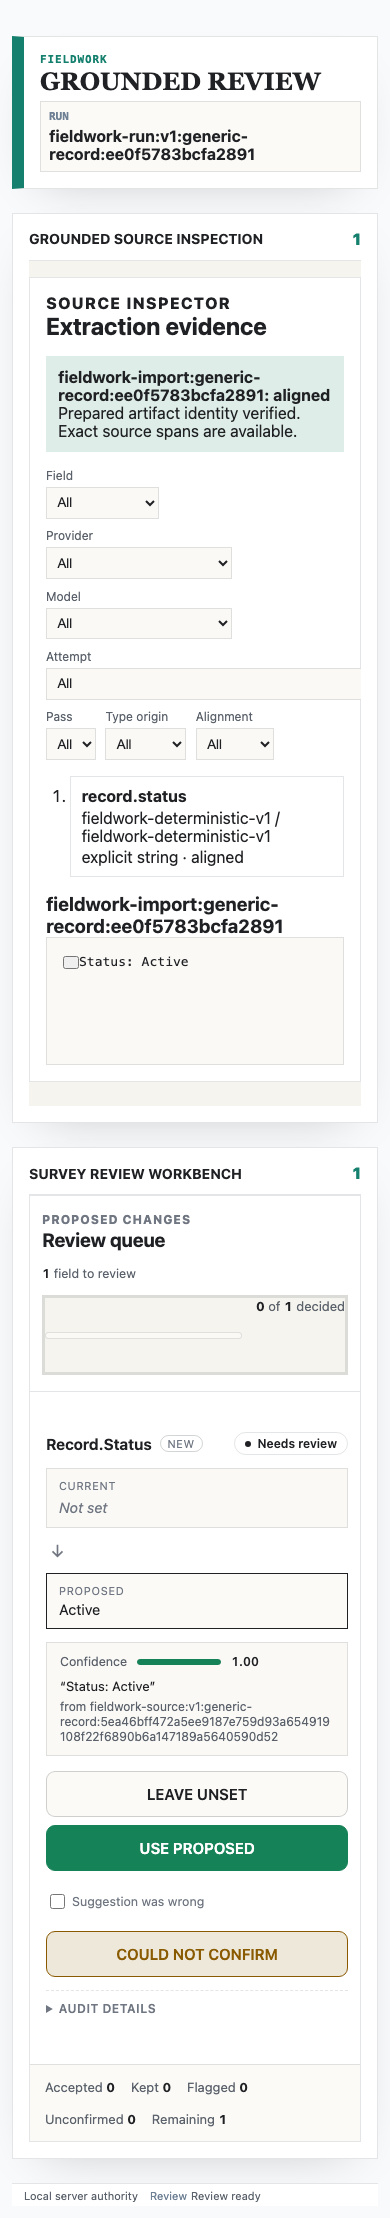
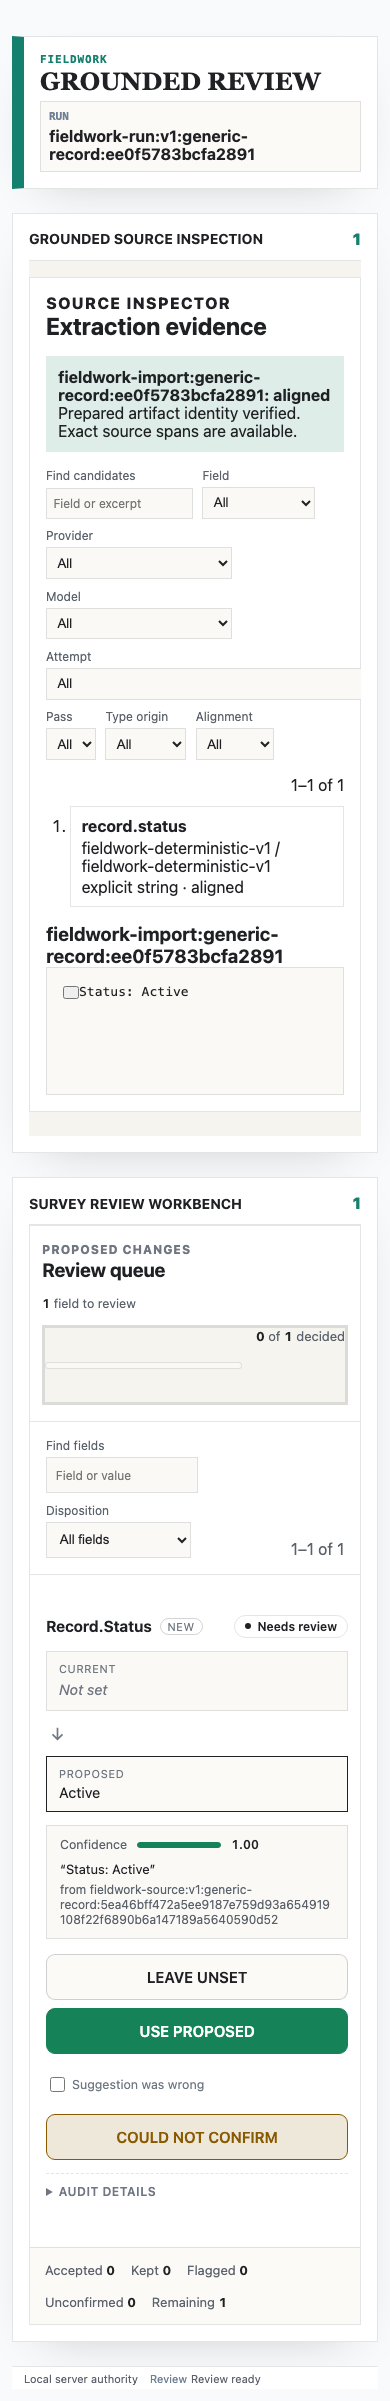
feat: scale grounded inspection and review (#24)

diff --git a/src/inspection.ts b/src/inspection.ts
@@ -1,0 +1,52 @@
+import {
+  buildExtractionInspectorModel,
+  exportExtractionInspector,
+  importExtractionEnvelope,
+} from "@kontourai/survey";
+import { importNameFor } from "./fieldwork.js";
+import { assertPortableOutput, readRun } from "./run-store.js";
+
+export interface FieldworkInspectionExportOptions {
+  readonly includePreparedText?: boolean;
+  readonly includeExcerpts?: boolean;
+}
+
+/**
+ * Creates a canonical, read-only inspection artifact for a stored run.
+ *
+ * Survey remains the inspector/export contract owner. Fieldwork only resolves
+ * and rebinds its local prepared artifact before applying the portable
+ * disclosure guard.
+ */
+export async function inspectionExport(
+  runDirectory: string,
+  options: FieldworkInspectionExportOptions = {},
+): Promise<string> {
+  const stored = await readRun(runDirectory);
+  const imported = importExtractionEnvelope(stored.envelope, {
+    importName: importNameFor(stored.run),
+    producerNamespace: "fieldwork",
+    sourceKind: "uploaded-document",
+    claimTarget: (proposal) => {
+      const projection = stored.run.task.spec.projections.find(
+        (entry) => entry.fieldPath === proposal.fieldPath,
+      );
+      if (!projection) throw new Error("Unknown projection");
+      return { ...projection.claim, fieldOrBehavior: proposal.fieldPath };
+    },
+  });
+  const model = buildExtractionInspectorModel({
+    importResult: imported,
+    artifact: {
+      status: "available",
+      text: stored.preparedText,
+      actualDigest: stored.run.preparedArtifact.digest,
+    },
+  });
+  const artifact = exportExtractionInspector(
+    model,
+    options,
+  );
+  assertPortableOutput(JSON.parse(artifact));
+  return artifact;
+}

diff --git a/test/browser/review.spec.ts b/test/browser/review.spec.ts
@@ -24,8 +24,53 @@ test("review links a grounded candidate to a durable browser decision", async ({
     await page.getByTestId("use-proposed").click();
     await expect(page.getByLabel("Fieldwork status")).toContainText("Saved");
     await page.reload(); await expect(page.getByTestId("decided-chip")).toHaveText("Accepted");
-    await expect(page).toHaveScreenshot("fieldwork-review.png", { fullPage: true, maxDiffPixels: 500 });
+    // Native select text/chevrons can vary slightly across otherwise identical
+    // Chromium captures. Keep the allowance well below 0.1% of this full-page
+    // image while structural and interaction assertions verify the controls.
+    await expect(page).toHaveScreenshot("fieldwork-review.png", { fullPage: true, maxDiffPixels: 1_500 });
   } finally { await server.close(); }
+});
+
+test("composed Survey workbench bounds and searches a thousand review items", async ({ page }) => {
+  const run = await runFieldwork({
+    taskPath: "examples/generic/task.json",
+    sourcePath: "examples/generic/source.txt",
+    root: await tempRoot("browser-large-review"),
+  });
+  const server = await openRun(run.runDirectory);
+  try {
+    await page.route("**/api/v1/run", async (route) => {
+      const response = await route.fetch();
+      const body = await response.json();
+      const template = body.review.snapshot.items[0];
+      const items = Array.from({ length: 1_005 }, (_, index) => ({
+        ...structuredClone(template),
+        metadata: {
+          ...structuredClone(template.metadata),
+          name: `large-item-${String(index).padStart(4, "0")}`,
+        },
+        spec: {
+          ...structuredClone(template.spec),
+          target: index === 1_004 ? "needle-field" : `large.field.${index}`,
+        },
+      }));
+      body.review.snapshot = {
+        ...body.review.snapshot,
+        items,
+        activeItemName: items[0].metadata.name,
+      };
+      body.review.items = items;
+      await route.fulfill({ response, json: body });
+    });
+    await page.goto(server.url);
+    await expect(page.getByTestId("review-field")).toHaveCount(50);
+    await expect(page.getByText("1–50 of 1005")).toBeVisible();
+    await page.getByTestId("queue-search").fill("needle");
+    await expect(page.getByTestId("review-field")).toHaveCount(1);
+    await expect(page.locator('[data-field="needle-field"]')).toBeVisible();
+  } finally {
+    await server.close();
+  }
 });
 
 test("review has a mobile visual baseline", async ({ page }) => {
@@ -96,7 +141,7 @@ test("format-native PDF and OCR context is visible in the shared inspector", asy
       .toContainText("Status: Active");
     await expect(page).toHaveScreenshot("fieldwork-format-inspection.png", {
       fullPage: true,
-      maxDiffPixels: 500,
+      maxDiffPixels: 1_500,
     });
   } finally {
     await pdfServer.close();

diff --git a/test/api.test.ts b/test/api.test.ts
@@ -3,6 +3,8 @@ import test from "node:test";
 import { openRun } from "../src/server.js";
 import type { FieldworkRunViewV1, ReviewMutationResponseV1 } from "../src/api-contracts.js";
 import { runFieldwork, reviewedExport } from "../src/fieldwork.js";
+import { inspectionExport } from "../src/inspection.js";
+import { persistedReviewSnapshotSchema } from "../src/survey-persistence.js";
 import { apiFetch, tempRoot } from "./helpers.js";
 import { buildReviewSessionEvents, type ReviewQueueSessionState, type ReviewWorkbenchDecision } from "@kontourai/survey/review-workbench";
 import { lstat, mkdir, readFile, rmdir, symlink, unlink, utimes, writeFile } from "node:fs/promises";
@@ -49,6 +51,50 @@ test("loopback API persists a Survey decision and exports after acceptance", asy
     if (!stale.ok) assert.equal(stale.error.code, "REVIEW_CONFLICT");
     assert.ok(await reviewedExport(run.runDirectory));
   } finally { await server.close(); }
+});
+
+test("exports a canonical static inspection artifact with source disclosure off by default", async () => {
+  const run = await runFieldwork({
+    taskPath: "examples/generic/task.json",
+    sourcePath: "examples/generic/source.txt",
+    root: await tempRoot("inspection-export"),
+  });
+  const safe = await inspectionExport(run.runDirectory);
+  assert.match(safe, /ExtractionInspectorExport/);
+  assert.match(safe, /preparedTextIncluded":false/);
+  assert.match(safe, /\[redacted\]/);
+  assert.doesNotMatch(safe, /Status: Active/);
+  const disclosed = await inspectionExport(run.runDirectory, {
+    includePreparedText: true,
+    includeExcerpts: true,
+  });
+  assert.match(disclosed, /Status: Active/);
+});
+
+test("accepts a thousand-item Survey snapshot while preserving bounded task projections", async () => {
+  const run = await runFieldwork({
+    taskPath: "examples/generic/task.json",
+    sourcePath: "examples/generic/source.txt",
+    root: await tempRoot("large-snapshot"),
+  });
+  const server = await openRun(run.runDirectory);
+  try {
+    const initial = await view(server);
+    const snapshot = structuredClone(initial.review.snapshot) as unknown as ReviewQueueSessionState;
+    const template = snapshot.items[0]!;
+    const items = Array.from({ length: 1_005 }, (_, index) => ({
+      ...structuredClone(template),
+      metadata: { ...structuredClone(template.metadata), name: `large-item-${index}` },
+      spec: { ...structuredClone(template.spec), target: `large.field.${index}` },
+    }));
+    assert.equal(persistedReviewSnapshotSchema.parse({
+      ...snapshot,
+      items,
+      activeItemName: items[0]!.metadata.name,
+    }).items.length, 1_005);
+  } finally {
+    await server.close();
+  }
 });
 
 test("two server instances and path aliases serialize one append-only winner", async () => {

diff --git a/src/cli.ts b/src/cli.ts
@@ -8,6 +8,7 @@ import { openRun } from "./server.js";
 import { createDatumRuntimeBinding, createProfileRuntimeBinding, type FieldworkRuntimeBinding } from "./runtime-contracts.js";
 import { createCheckRunner, createLookoutSnapshotStore, loadRegistry } from "@kontourai/lookout";
 import { recheckFieldwork } from "./recheck.js";
+import { inspectionExport } from "./inspection.js";
 
 async function main(argv: string[]): Promise<void> {
   const [command, ...args] = argv;
@@ -80,7 +81,7 @@ async function main(argv: string[]): Promise<void> {
       const registry = await loadRegistry(flag(args, "--registry"));
       const source = registry.get(sourceId);
       if (!source) invalid(`registered source not found: ${sourceId}`);
-      const selectedSnapshotRoot = snapshotRoot ?? resolve(".kontourai/lookout/snapshots");
+      const selectedSnapshotRoot = snapshotRoot ?? resolve(".fieldwork/lookout/snapshots");
       const store = createLookoutSnapshotStore(selectedSnapshotRoot);
       const runtime = runtimeBinding(args);
       return output({
@@ -114,7 +115,18 @@ async function main(argv: string[]): Promise<void> {
       await mkdir(dirname(resolve(outputPath)), { recursive: true }); await writeFile(resolve(outputPath), `${JSON.stringify(artifact, null, 2)}\n`, "utf8");
       return output({ ok: true, output: outputPath }, has(args, "--json"));
     }
-    output(failure("USAGE", "fieldwork acquire|run|recheck|open|export; use README.md for the public contract"), true); process.exitCode = 2;
+    if (command === "inspect") {
+      const run = args.find((value) => !value.startsWith("--")), outputPath = flag(args, "--output");
+      if (!run || !outputPath) throw Object.assign(new Error("inspect requires <run> --output <file>"), { code: "INVALID_ARGUMENT" });
+      const artifact = await inspectionExport(resolve(run), {
+        includePreparedText: has(args, "--include-prepared-text"),
+        includeExcerpts: has(args, "--include-excerpts"),
+      });
+      await mkdir(dirname(resolve(outputPath)), { recursive: true });
+      await writeFile(resolve(outputPath), `${artifact}\n`, "utf8");
+      return output({ ok: true, output: outputPath }, has(args, "--json"));
+    }
+    output(failure("USAGE", "fieldwork acquire|run|recheck|open|inspect|export; use README.md for the public contract"), true); process.exitCode = 2;
   } catch (error) {
     output(failure((error as { code?: string }).code ?? "FIELDWORK_ERROR", error instanceof Error ? error.message : "Unexpected failure"), true); process.exitCode = 1;
   }

diff --git a/test/cli.test.ts b/test/cli.test.ts
@@ -3,11 +3,25 @@ import test from "node:test";
 import { execFile } from "node:child_process";
 import { promisify } from "node:util";
 import { tempRoot } from "./helpers.js";
+import { readFile } from "node:fs/promises";
+import { join } from "node:path";
 const exec = promisify(execFile);
 
 test("CLI returns a typed JSON run contract", async () => {
   const { stdout } = await exec(process.execPath, ["--import", "tsx", "src/cli.ts", "run", "--task", "examples/generic/task.json", "--source", "examples/generic/source.txt", "--root", await tempRoot("cli"), "--json"]);
   const result = JSON.parse(stdout); assert.equal(result.ok, true); assert.match(result.runResource, /^fieldwork-run:v1:/);
+});
+
+test("CLI writes a portable redacted static inspection artifact", async () => {
+  const root = await tempRoot("cli-inspect");
+  const { stdout } = await exec(process.execPath, ["--import", "tsx", "src/cli.ts", "run", "--task", "examples/generic/task.json", "--source", "examples/generic/source.txt", "--root", root, "--json"]);
+  const run = JSON.parse(stdout);
+  const outputPath = join(root, "inspection.json");
+  await exec(process.execPath, ["--import", "tsx", "src/cli.ts", "inspect", run.runDirectory, "--output", outputPath, "--json"]);
+  const artifact = await readFile(outputPath, "utf8");
+  assert.match(artifact, /ExtractionInspectorExport/);
+  assert.match(artifact, /\[redacted\]/);
+  assert.doesNotMatch(artifact, /Status: Active/);
 });
 
 test("CLI returns typed failure for missing arguments", async () => {

diff --git a/src/api-contracts.ts b/src/api-contracts.ts
@@ -1,7 +1,12 @@
 import { z } from "zod";
 import type { FieldworkRuntimeBinding } from "./runtime-contracts.js";
 
-const TRANSPORT_LIMITS = { sourceBytes: 2 * 1024 * 1024, projections: 128, events: 10_000 } as const;
+const TRANSPORT_LIMITS = {
+  sourceBytes: 2 * 1024 * 1024,
+  projections: 128,
+  reviewItems: 10_000,
+  events: 10_000,
+} as const;
 
 export type JsonPrimitive = string | number | boolean | null;
 export type JsonValue = JsonPrimitive | JsonObject | JsonValue[];
@@ -277,7 +282,7 @@ export const fieldworkRunViewSchema: z.ZodType<FieldworkRunViewV1> = z.object({
   inspector: jsonObjectSchema,
   review: z.object({
     snapshot: jsonObjectSchema,
-    items: z.array(jsonObjectSchema).max(TRANSPORT_LIMITS.projections),
+    items: z.array(jsonObjectSchema).max(TRANSPORT_LIMITS.reviewItems),
     events: z.array(jsonObjectSchema).max(TRANSPORT_LIMITS.events),
     apply: jsonObjectSchema
   }).strict()

diff --git a/src/index.ts b/src/index.ts
@@ -34,6 +34,7 @@ import {
 } from "./api-contracts.js";
 import { fieldworkHostDescriptor } from "./host-descriptor.js";
 import { recheckFieldwork as internalRecheck } from "./recheck.js";
+import { inspectionExport as internalInspectionExport } from "./inspection.js";
 
 export const FIELDWORK_LIMITS = internalLimits;
 export const fieldworkTaskSchema: z.ZodType<FieldworkTask> = internalTaskSchema;
@@ -66,6 +67,12 @@ export function acquireFieldwork(options: FieldworkAcquisitionOptions): Promise<
 export function reviewedExport(runDirectory: string): Promise<ReviewedExportV1> {
   return internalExport(runDirectory);
 }
+export function inspectionExport(
+  runDirectory: string,
+  options?: import("./inspection.js").FieldworkInspectionExportOptions,
+): Promise<string> {
+  return internalInspectionExport(runDirectory, options);
+}
 export function openRun(runDirectory: string, port?: number): Promise<OpenRunService> {
   return internalOpen(runDirectory, port);
 }
@@ -89,6 +96,7 @@ export type {
   FieldworkRuntimeBudget, FieldworkRuntimeCandidate,
   FieldworkStoredExecution, ProfileRuntimeBindingOptions
 } from "./runtime-contracts.js";
+export type { FieldworkInspectionExportOptions } from "./inspection.js";
 export type {
   FieldworkEvidenceObservation,
   FieldworkCheckResult,

diff --git a/src/contracts.ts b/src/contracts.ts
@@ -4,8 +4,10 @@ import { createExtractionTaskSpec, validateExtractionTaskSpec, type ExtractionTa
 export const FIELDWORK_LIMITS = {
   taskBytes: 256 * 1024,
   sourceBytes: 2 * 1024 * 1024,
-  requestBodyBytes: 1024 * 1024,
+  requestBodyBytes: 16 * 1024 * 1024,
+  artifactBytes: 32 * 1024 * 1024,
   projections: 128,
+  reviewItems: 10_000,
   events: 10_000,
   string: 4_096,
   pattern: 512

diff --git a/src/run-store.ts b/src/run-store.ts
@@ -92,7 +92,7 @@ export async function readRun(runDirectory: string): Promise<StoredRunRead> {
   await rejectSymlink(requested, "run directory");
   const directory = await realpath(requested);
   const runPath = await containedRegularFile(directory, "run.json");
-  const runText = await readBounded(runPath, FIELDWORK_LIMITS.taskBytes + FIELDWORK_LIMITS.requestBodyBytes);
+  const runText = await readBounded(runPath, FIELDWORK_LIMITS.artifactBytes);
   const parsedRun = storedRunSchema.parse(JSON.parse(runText));
   const validatedReview = parsePersistedReview(parsedRun.review);
   const run = {
@@ -100,7 +100,7 @@ export async function readRun(runDirectory: string): Promise<StoredRunRead> {
     review: { ...validatedReview, revision: parsedRun.review.revision }
   } as StoredRun;
   const envelopePath = await containedRegularFile(directory, run.envelopeFile);
-  const envelopeText = await readBounded(envelopePath, FIELDWORK_LIMITS.requestBodyBytes);
+  const envelopeText = await readBounded(envelopePath, FIELDWORK_LIMITS.artifactBytes);
   const validated = validatePortableExtractionResultEnvelope(JSON.parse(envelopeText));
   if (validated.status !== "valid") throw new Error("Stored extraction envelope is invalid");
   const preparedPath = await containedRegularFile(directory, run.preparedArtifact.file);

diff --git a/src/survey-persistence.ts b/src/survey-persistence.ts
@@ -104,7 +104,7 @@ const reviewItemSchema = z.object({
 const decisionSchema = z.enum(["accept-proposed", "keep-current", "reject-proposed", "could-not-confirm"]);
 
 export const persistedReviewSnapshotSchema = z.object({
-  items: z.array(reviewItemSchema).max(FIELDWORK_LIMITS.projections),
+  items: z.array(reviewItemSchema).max(FIELDWORK_LIMITS.reviewItems),
   activeItemName: text,
   notesByItemName: z.record(text, text),
   decisionsByItemName: z.record(text, decisionSchema),

diff --git a/docs/decisions/local-run-artifacts.md b/docs/decisions/local-run-artifacts.md
@@ -9,3 +9,15 @@ An identical deterministic run reuses an existing valid directory without rewrit
 The run directory is local and ignored by default. Export reads only a Survey canonical reviewed projection, validates it with Surface, scans it for portable disclosure, and fails closed when the prepared artifact, event stream, or resolution state is invalid. Disclosure scanning covers root-anchored POSIX paths and cross-platform path forms plus a maintained credential corpus including GitHub token families and AWS access-key and secret-key shapes.
 
 Persisted Survey JSON is checked structurally before it reaches Survey replay, then Fieldwork invokes Survey's server-session event validation and apply derivation for semantic validation. This structural adapter is intentionally narrow and temporary: [Survey issue #188](https://github.com/kontourai/survey/issues/188) requests reusable unknown-input validators so Survey can own the entire nested ReviewItem, queue snapshot, and event boundary.
+
+Task target capacity and review-item capacity are separate bounds. A task may
+declare at most 128 target fields while one field may yield repeated or
+alternative grounded proposals; stored Survey snapshots therefore admit up to
+10,000 ReviewItems inside a 32 MiB structured-artifact ceiling. The loopback
+Workbench uses Survey's bounded presentation window rather than mounting the
+complete snapshot at once.
+
+`fieldwork inspect` rebinds the stored prepared bytes through Survey's canonical
+read-only inspector export. Prepared text and excerpts are redacted by default
+and require separate explicit disclosure flags. This artifact never represents
+a review decision or reviewed trust output.

diff --git a/README.md b/README.md
@@ -51,6 +51,10 @@ npm exec -- fieldwork recheck \
   --snapshot-root .fieldwork/sources --json
 ```
 
+When `--snapshot-root` is omitted for a recheck, Fieldwork uses its own local
+`.fieldwork/lookout/snapshots` store. Hosts may always supply a different
+application-owned path.
+
 Lookout owns conditional source checks, proposal-observation continuity, concurrent-writer exclusion, and semantic proposal comparison. Fieldwork supplies the extraction capability and owns the application policy:
 
 - unchanged source bytes skip Traverse and the selected model runtime;
@@ -135,11 +139,13 @@ Review writes use a canonical run-directory storage lock held across read, prefi
 
 `fieldwork export <run> --output <file> [--json]` refuses unresolved, stale, malformed, tampered, or ungrounded review state.
 
-The typed TypeScript API exports `acquireFieldwork`, `runFieldwork`, `runFieldworkBatch`, `recheckFieldwork`, `openRun`, `reviewedExport`, task validation, `fieldworkHostDescriptor`, source adapter types, and versioned Fieldwork-owned acquisition, batch, recheck, run, view, mutation, prepared-artifact, and reviewed-export contracts. `recheckFieldwork` accepts an injected Lookout-compatible acquisition capability, so tests and hosts can retain their own registry and network authority. `@kontourai/fieldwork/runtime` exports the runtime-binding factories and stored-execution schema; programmatic callers may supply any Relay `ModelRuntime`, including SDK or framework adapters already owned by their host. The transport schemas validate their full advertised JSON shape. Survey inspector, snapshot, item, event, and apply sections remain explicitly opaque JSON at this public boundary; Fieldwork validates their persisted structure internally and delegates semantic replay/apply validation to Survey rather than republishing Survey's declaration graph or business vocabulary. The descriptor is a documentation/fixture seam for a future host; no host dependency is required.
+`fieldwork inspect <run> --output <file> [--include-prepared-text] [--include-excerpts] [--json]` writes a canonical read-only inspection artifact. Prepared text and excerpts are redacted unless each disclosure is explicitly requested. The artifact is independent of review disposition and contains no provider credentials, raw diagnostics, or machine paths.
+
+The typed TypeScript API exports `acquireFieldwork`, `runFieldwork`, `runFieldworkBatch`, `recheckFieldwork`, `openRun`, `inspectionExport`, `reviewedExport`, task validation, `fieldworkHostDescriptor`, source adapter types, and versioned Fieldwork-owned acquisition, batch, recheck, run, view, mutation, prepared-artifact, and reviewed-export contracts. `recheckFieldwork` accepts an injected Lookout-compatible acquisition capability, so tests and hosts can retain their own registry and network authority. `@kontourai/fieldwork/runtime` exports the runtime-binding factories and stored-execution schema; programmatic callers may supply any Relay `ModelRuntime`, including SDK or framework adapters already owned by their host. The transport schemas validate their full advertised JSON shape. Survey inspector, snapshot, item, event, and apply sections remain explicitly opaque JSON at this public boundary; Fieldwork validates their persisted structure internally and delegates semantic replay/apply validation to Survey rather than republishing Survey's declaration graph or business vocabulary. The descriptor is a documentation/fixture seam for a future host; no host dependency is required.
 
 ## Limits
 
-Fieldwork accepts task files up to 256 KiB, source text up to 2 MiB, mutation bodies up to 1 MiB, 128 projections/target fields, 10,000 review events, 4,096 characters per general task string, and 512 characters per extraction pattern. Deterministic patterns intentionally support only a literal label followed by one line-bounded capture, for example `Status: ([^\n]+)`. Lookarounds, backreferences, nested/repeated groups, and arbitrary regular expressions are rejected.
+Fieldwork accepts task files up to 256 KiB, source text up to 2 MiB, mutation bodies up to 16 MiB, stored structured artifacts up to 32 MiB, 128 projections/target fields, 10,000 Survey review items, 10,000 review events, 4,096 characters per general task string, and 512 characters per extraction pattern. Review-item capacity is intentionally separate from target-field capacity because a provider may ground repeated or alternative proposals for one field. Deterministic patterns intentionally support only a literal label followed by one line-bounded capture, for example `Status: ([^\n]+)`. Lookarounds, backreferences, nested/repeated groups, and arbitrary regular expressions are rejected.
 
 ## Verification
 